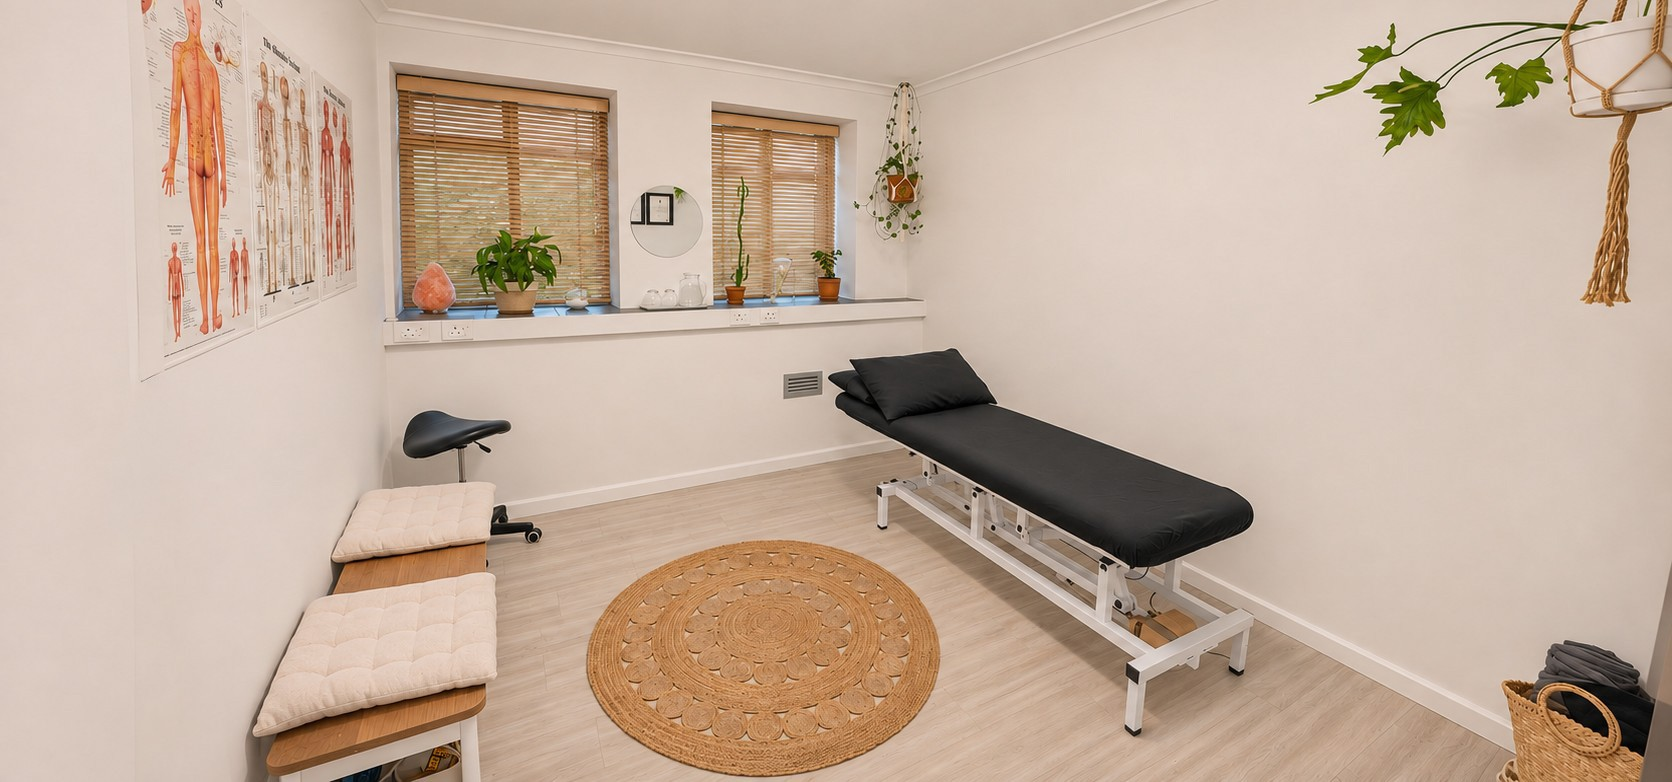
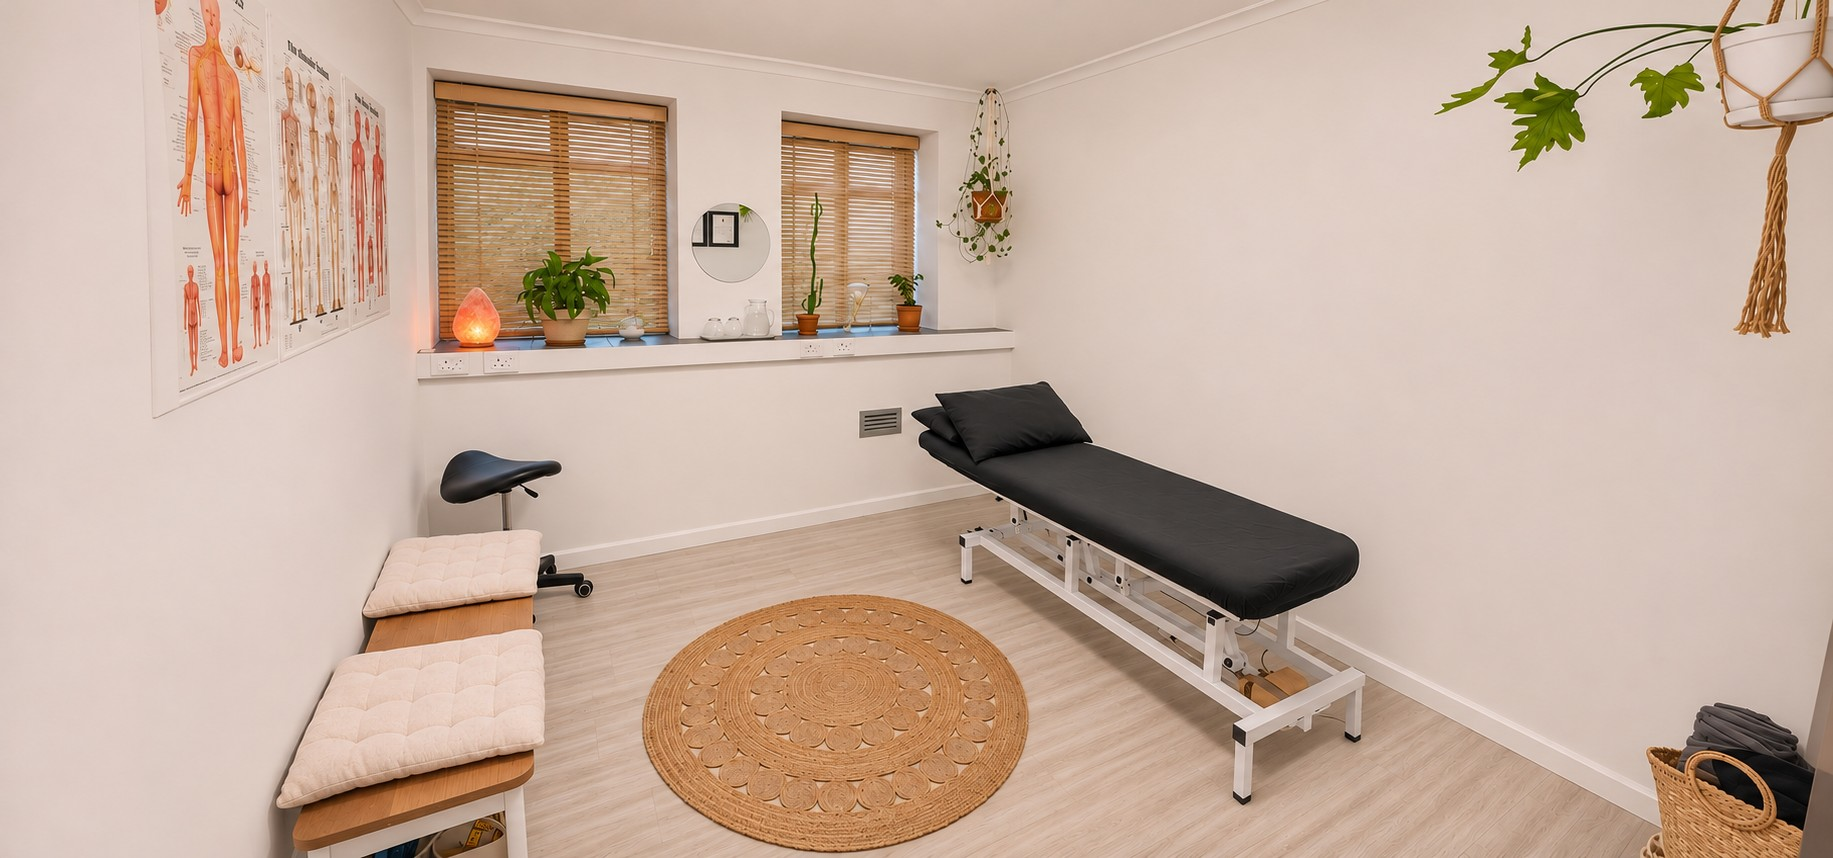
update

diff --git a/index.html b/index.html
@@ -103,7 +103,7 @@ html{scroll-behavior:smooth;scroll-padding-top:80px}
   [style*="height: 460px"]{height:240px !important}
   [style*="height: 220px"]{height:180px !important}
   [style*="min-height: 220px"]{min-height:150px !important}
-  [aria-label="The treatment room"]{height:280px !important;background-position:54% 50% !important}
+  [aria-label="The treatment room"]{height:280px !important;background-position:52% 50% !important}
   [aria-label="Details of the room"]{min-height:215px !important}
   [style*="min-height: 380px"]{min-height:220px !important}
   [style*="margin: 20px; border-radius: 28px"]{margin:0 16px 16px !important}
